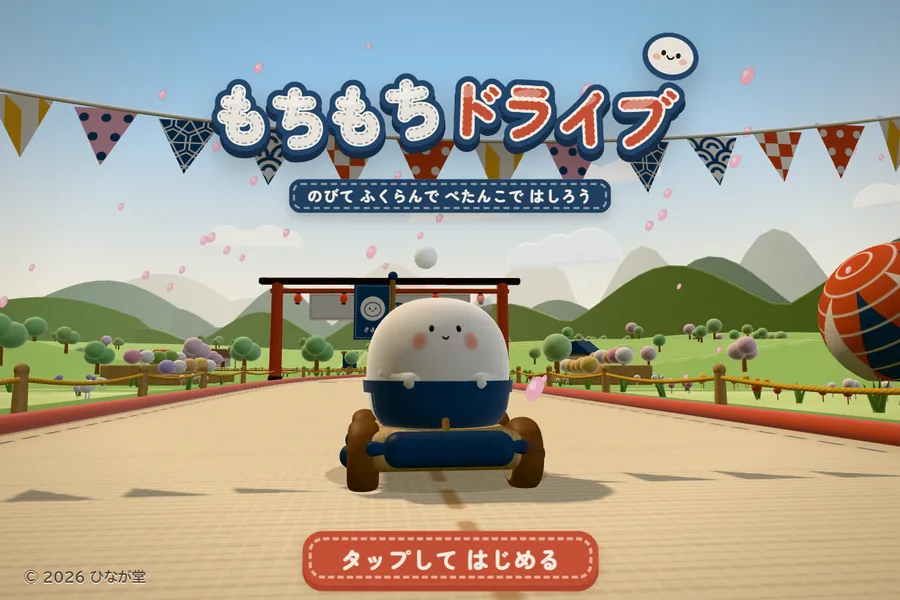
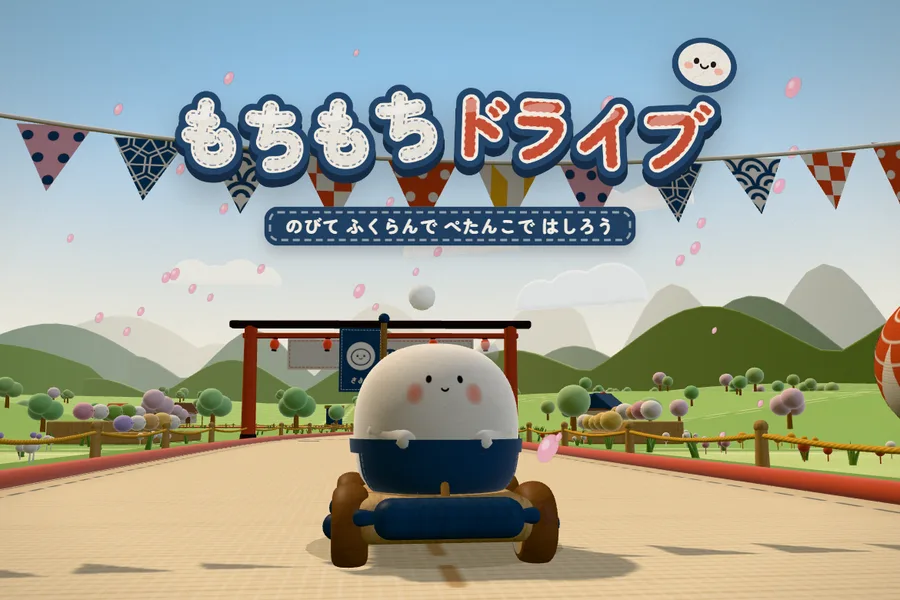
HP: 無料ゲームのページを見やすく作り直し（カード全体を押せる・大きなボタン・日本語のジャンル・ボタンの写らない絵）

diff --git a/play/index.html b/play/index.html
@@ -40,41 +40,41 @@
 <main class="grid-bg">
   <div class="wrap">
     <nav class="crumbs" aria-label="現在地"><a href="../index.html">ホーム</a><span>›</span><b>無料ゲーム</b></nav>
-    <div class="page-head"><p class="eyebrow">Free Games</p><h1>無料で遊べるゲーム</h1>
-      <p class="sec-lead">スマホでもパソコンでも、ブラウザですぐ遊べます。登録やダウンロードはいりません。お金はかかりません。</p></div>
-    <div class="cards">
-      <article class="card reveal">
-        <a class="card-img" href="omochi/" tabindex="-1" aria-hidden="true"><img src="../assets/img/play_omochi.webp" alt="" loading="lazy" width="900" height="600"></a>
-        <div class="card-body">
-          <span class="card-en">Mini Game</span>
-          <h3><a class="card-title" href="omochi/">おもちのマス目チェック</a></h3>
-          <p>店番のおもちと一緒に、マス目の「やること札」をどんどんチェックする、1回60秒のやさしいミニゲーム。すき間時間にどうぞ。</p>
-          <div class="card-foot"><span class="price">無料</span></div>
-          <div class="item-links"><a class="badge play" href="omochi/">いますぐ遊ぶ →</a></div>
+    <div class="page-head game-head"><h1>無料で遊べるゲーム</h1>
+      <p class="sec-lead">遊びたいゲームを押すと、すぐ始まります。登録・ダウンロードはいりません。スマホでもパソコンでも遊べます。</p>
+      <p class="game-note">「開発中」の札があるゲームは、遊びやすさを見ながら少しずつ良くしています。</p></div>
+    <div class="game-grid">
+      <article class="game-card reveal">
+        <img src="../assets/img/game.webp" alt="" loading="lazy" width="1536" height="1024">
+        <div class="game-body">
+          <p class="game-tags"><span class="game-genre">ミニゲーム・1回60秒</span></p>
+          <h2 class="game-title"><a class="game-link" href="omochi/">おもちのマス目チェック</a></h2>
+          <p class="game-catch">すき間時間に、さっと1回。</p>
+          <p class="game-desc">店番のおもちと一緒に、マス目の「やること札」をどんどんチェック。むずかしい操作はありません。</p>
+          <span class="game-btn" aria-hidden="true">いますぐ遊ぶ <span>›</span></span>
         </div>
       </article>
-      <article class="card reveal">
-        <a class="card-img" href="https://hinagado.github.io/mochimochi-drive/" tabindex="-1" aria-hidden="true"><img src="../assets/img/play_mochimochi.webp" alt="" loading="lazy" width="900" height="600"></a>
-        <div class="card-body">
-          <span class="card-en">Racing</span>
-          <h3><a class="card-title" href="https://hinagado.github.io/mochimochi-drive/">もちもちドライブ</a></h3>
-          <p>おもちがカートで走るレースゲーム。コースは4つ、グランプリ・アイテム・6人でのレースがあります。</p>
-          <div class="card-foot"><span class="price">無料</span><span class="badge">試し遊び版</span></div>
-          <div class="item-links"><a class="badge play" href="https://hinagado.github.io/mochimochi-drive/">いますぐ遊ぶ →</a></div>
+      <article class="game-card reveal">
+        <img src="../assets/img/play_mochimochi.webp" alt="" loading="lazy" width="900" height="600">
+        <div class="game-body">
+          <p class="game-tags"><span class="game-genre">レース</span><span class="game-dev">開発中</span></p>
+          <h2 class="game-title"><a class="game-link" href="https://hinagado.github.io/mochimochi-drive/">もちもちドライブ</a></h2>
+          <p class="game-catch">おもちがカートでびゅーん。</p>
+          <p class="game-desc">アイテムを使いながら、6人でゴールをめざします。コースは4つ。</p>
+          <span class="game-btn" aria-hidden="true">いますぐ遊ぶ <span>›</span></span>
         </div>
       </article>
-      <article class="card reveal">
-        <a class="card-img" href="https://hinagado.github.io/wanko-island/" tabindex="-1" aria-hidden="true"><img src="../assets/img/play_wanko.webp" alt="" loading="lazy" width="900" height="600"></a>
-        <div class="card-body">
-          <span class="card-en">Island Life</span>
-          <h3><a class="card-title" href="https://hinagado.github.io/wanko-island/">わんこアイランド</a></h3>
-          <p>小さな島で犬たちと出会い、いっしょに過ごしながら島を育てていくゲーム。</p>
-          <div class="card-foot"><span class="price">無料</span><span class="badge">試し遊び版（作っている途中）</span></div>
-          <div class="item-links"><a class="badge play" href="https://hinagado.github.io/wanko-island/">いますぐ遊ぶ →</a></div>
+      <article class="game-card reveal">
+        <img src="../assets/img/play_wanko.webp" alt="" loading="lazy" width="900" height="600">
+        <div class="game-body">
+          <p class="game-tags"><span class="game-genre">島でのんびり</span><span class="game-dev">開発中</span></p>
+          <h2 class="game-title"><a class="game-link" href="https://hinagado.github.io/wanko-island/">わんこアイランド</a></h2>
+          <p class="game-catch">犬たちと、小さな島で。</p>
+          <p class="game-desc">島で犬たちと出会い、いっしょに過ごしながら、島を少しずつ育てていきます。</p>
+          <span class="game-btn" aria-hidden="true">いますぐ遊ぶ <span>›</span></span>
         </div>
       </article>
     </div>
-    <p class="sec-lead play-note">「試し遊び版」は、いま作っているゲームです。遊びやすさを見ながら、中身を少しずつ変えていきます。</p>
   </div>
 </main>
 <footer class="site-footer">

diff --git a/assets/style.css b/assets/style.css
@@ -301,5 +301,26 @@ h1,h2,h3{font-family:var(--round);font-weight:700;letter-spacing:.06em;line-heig
 .vcard:hover .vthumb{transform:translateY(-2px)}
 @media (max-width:520px){.vcard{width:calc(50% - 12px)}}
 
-/* 無料ゲーム（play/index.html）の下の説明 2026-11-04 */
-.play-note{margin-top:32px}
+/* 無料ゲーム（play/index.html）2026-11-04 作り直し: カード全体を押せる・大きなボタン・日本語のジャンル */
+.game-head{margin-bottom:8px}
+.game-note{margin:10px 0 0;font-size:14px;color:var(--muted)}
+.game-grid{display:grid;grid-template-columns:repeat(3,1fr);gap:24px;margin:28px 0 64px}
+@media (max-width:980px){.game-grid{grid-template-columns:1fr 1fr}}
+@media (max-width:640px){.game-grid{grid-template-columns:1fr;gap:18px;margin-top:20px}}
+.game-card{position:relative;background:var(--paper);border:1px solid var(--line);border-radius:var(--radius);overflow:hidden;display:flex;flex-direction:column;box-shadow:var(--shadow);transition:transform .2s,box-shadow .2s}
+.game-card:hover{transform:translateY(-4px);box-shadow:0 16px 36px rgba(36,70,107,.18)}
+.game-card:focus-within{outline:3px solid var(--shu);outline-offset:3px}
+.game-card img{width:100%;aspect-ratio:3/2;object-fit:cover;display:block;background:var(--kinari)}
+.game-body{padding:18px 20px 20px;display:flex;flex-direction:column;gap:6px;flex:1}
+.game-tags{margin:0;display:flex;gap:8px;flex-wrap:wrap}
+.game-genre{background:var(--ai-soft);color:var(--ai);font-weight:700;font-size:13px;border-radius:999px;padding:4px 12px}
+.game-dev{background:#eee9e0;color:var(--muted);font-size:12.5px;border-radius:999px;padding:4px 10px}
+.game-title{margin:4px 0 0;font-size:22px;line-height:1.4}
+.game-link{color:var(--ink);text-decoration:none}
+.game-link::after{content:"";position:absolute;inset:0;z-index:1}
+.game-link:focus{outline:none}
+.game-catch{margin:0;font-weight:700;color:var(--shu);font-size:15.5px}
+.game-desc{margin:0;color:var(--muted);font-size:15px;line-height:1.75;flex:1}
+.game-btn{margin-top:12px;display:flex;justify-content:center;align-items:center;gap:8px;background:var(--ai);color:var(--kinari);font-weight:700;font-size:17px;border-radius:14px;padding:15px 18px;min-height:52px}
+.game-btn span{font-size:22px;line-height:1}
+.game-card:hover .game-btn{background:var(--ai-deep)}
